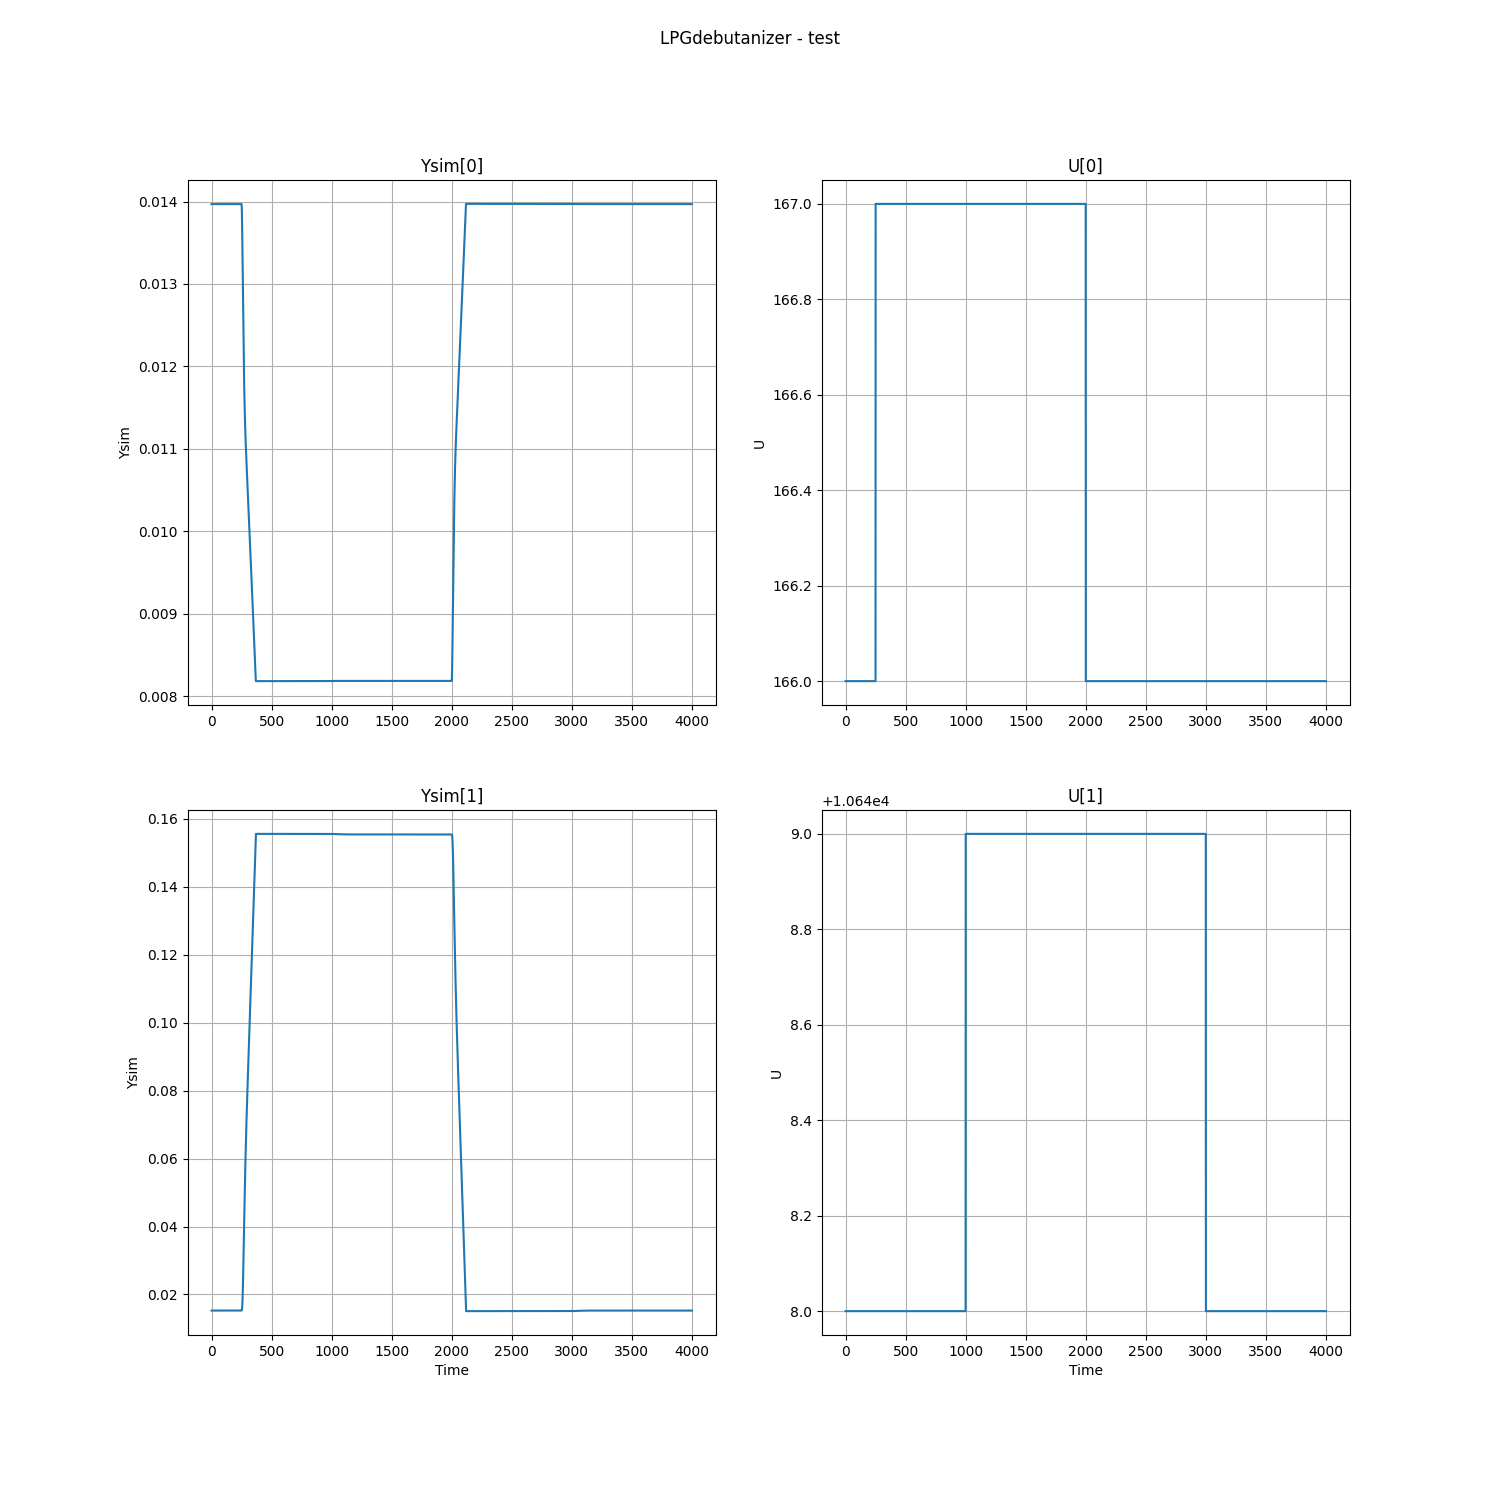
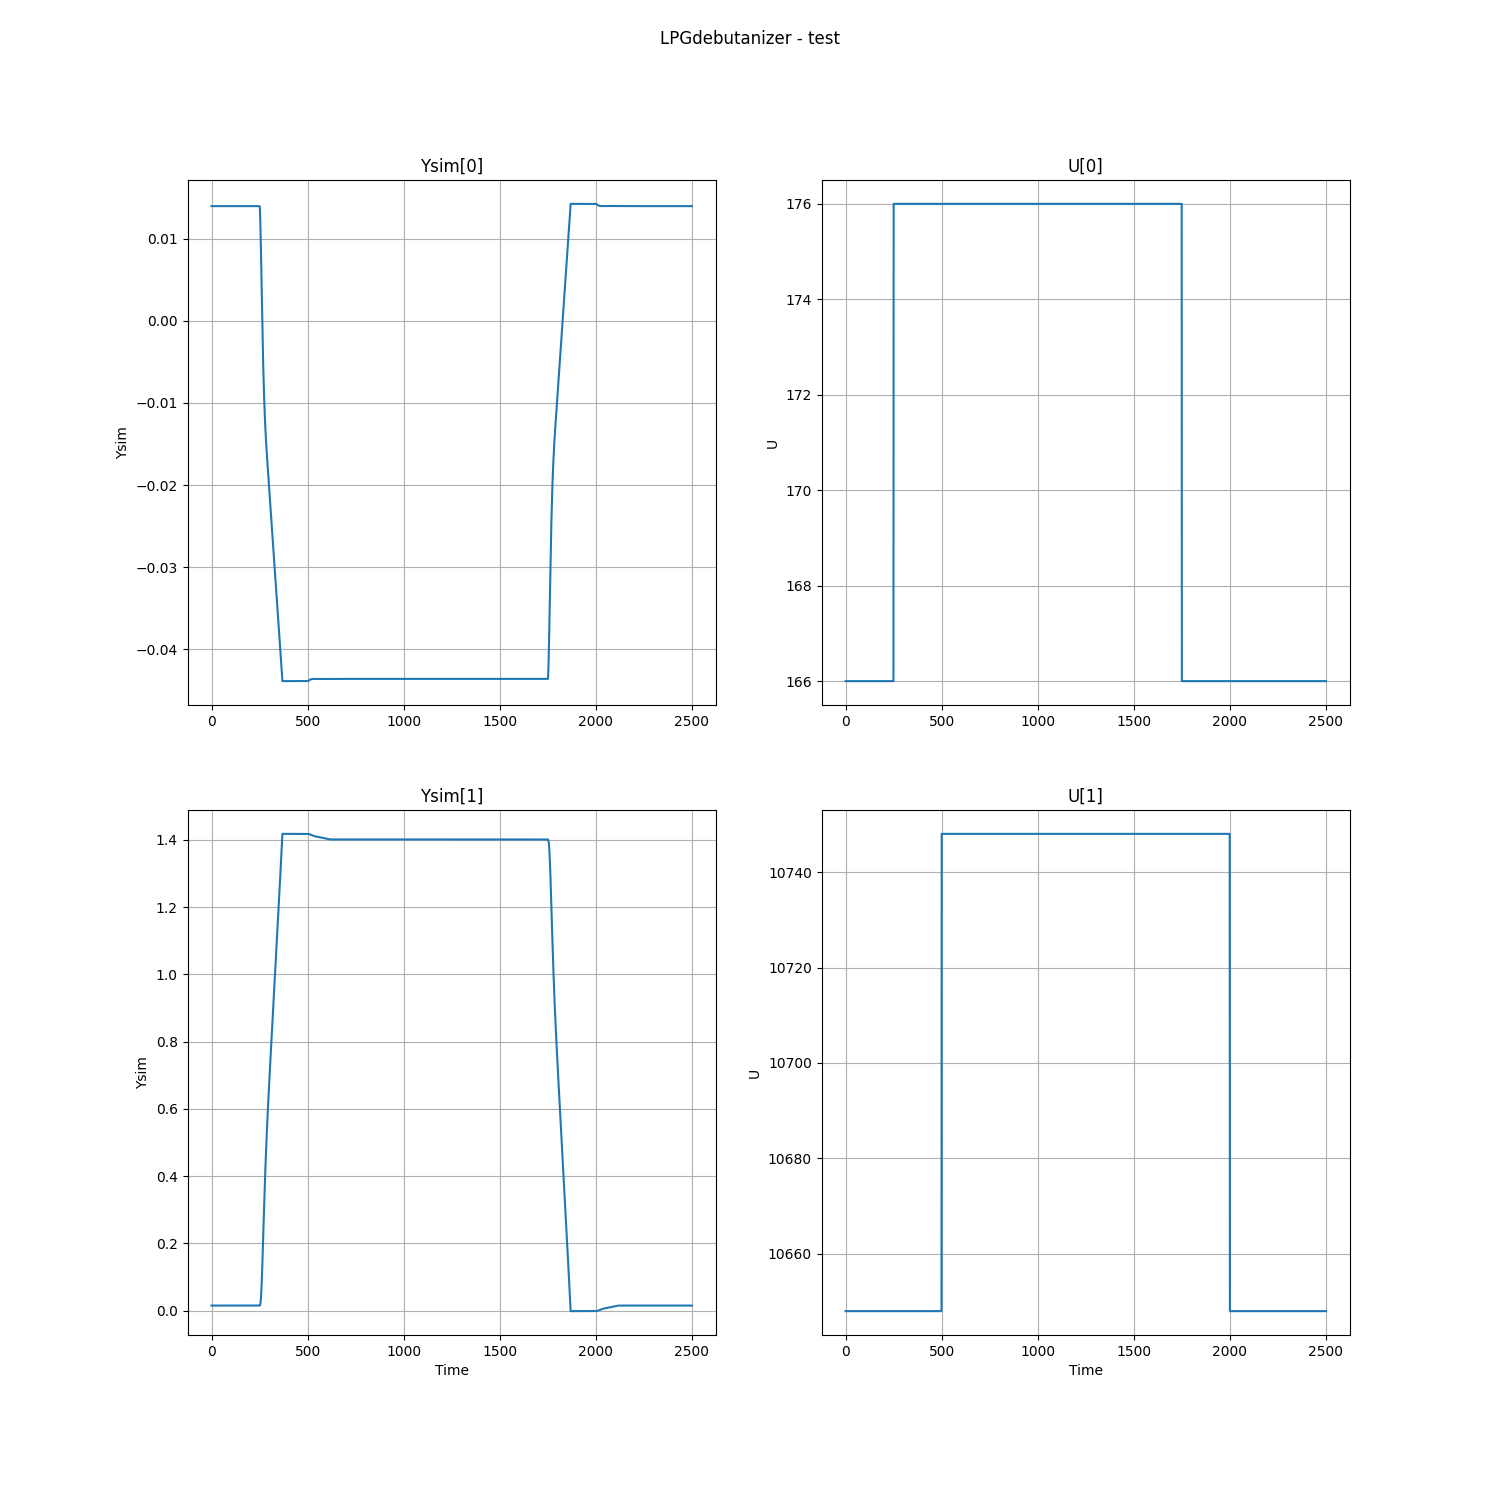
LPG first try simulation

diff --git a/01-LPGdebutanizerSimTest.py b/01-LPGdebutanizerSimTest.py
@@ -6,29 +6,63 @@ from src.mpc import mpc_controller_scipy_minimize
 from testSystems import *
 import joblib
 
-nsimTest = 4000  # Test simulation time in sampling periods
+# Initial parameters
+nsimTest = 2500  # Test simulation time in sampling periods
 nsim = 500  # Simulation time in sampling periods
 T = 1  # Sampling time (min)
-
 ny = 2
 nu = 2
 u0 = np.array([166, 10648])
 y0 = np.array([0.0139689, 0.0152698])
 
+#load the step responses
 Gmstep = joblib.load('outputs/Gstep.joblib')
 Gpstep = Gmstep
-
 plot_step_responses(Gmstep, nsim, T, plot_max_length=120, fig_name='LPGdebutanizer - Step Responses')
 
+# Set Simulation test
 tsimTest = np.linspace(0, nsimTest * T, nsimTest + 1)  # Simulation Time vector
 Utest = np.tile(u0, (len(tsimTest), 1)).T  # Initialisation of the input matrix
-Utest[:, 250:] = np.array([167, 10648]).reshape(-1, 1)  # Step change in inputs
-Utest[:, 1000:] = np.array([167, 10649]).reshape(-1, 1)  # Step change in inputs
-Utest[:, 2000:] = np.array([166, 10649]).reshape(-1, 1)  # Step change in inputs
-Utest[:, 3000:] = np.array([166, 10648]).reshape(-1, 1)  # Step change in inputs
+Utest[:, 250:] = np.array([176, 10648]).reshape(-1, 1)  # Step change in inputs
+Utest[:, 500:] = np.array([176, 10748]).reshape(-1, 1)  # Step change in inputs
+Utest[:, 1750:] = np.array([166, 10748]).reshape(-1, 1)  # Step change in inputs
+Utest[:, 2000:] = np.array([166, 10648]).reshape(-1, 1)  # Step change in inputs
 
 # Simulate the test
 YsimTest, delta_U = simulateMIMO(Gmstep, tsimTest, ny, nu, y0, u0, Utest)
 
 # Call the function to plot simulation results
 plot_simulation_results(YsimTest, Utest, tsimTest, 'LPGdebutanizer - test')
+
+# MPC parameters
+n = 120  # Stabilizing horizon
+p = 120  # Output prediction horizon
+m = 3  # Control horizon
+umax = np.array([190, 15000])
+umin = np.array([150, 5000])
+ymax = np.array([0.01, 0.03])
+ymin = np.array([0.005, 0.005])
+dumax = np.array([0.25, 5])
+q = np.array([100000, 100000])  # Output weights
+r = np.array([10000, 10000])  # Input weights
+
+# Control loop simulation
+tsim = np.linspace(0, nsim * T, nsim + 1)  # Simulation Time vector
+Ysim = np.tile(y0, (len(tsim), 1)).T # Initialize Y_sim
+Usim = np.tile(u0, (len(tsim), 1)).T  # Initialize U_sim
+for t in range(nsim + 1):
+    if t == 0:
+        u0temp = u0
+        y0temp = y0
+    else:
+        u_opt = mpc_controller_scipy_minimize(ny, nu, T, n, p, m, umax, umin, ymax, ymin, dumax, q,
+                                              r, u0temp, y0temp, Gmstep)
+        # Update Usim from t to the end with u_opt
+        Usim[:, t:] = u_opt.reshape(-1, 1)
+        # Simulate
+        Ysim, delta_U = simulateMIMO(Gpstep, tsim, ny, nu, y0, u0, Usim)
+        # Update Y0 and U0 for the next step
+        y0temp = Ysim[:, t]
+        u0temp = Usim[:, t]
+    print(f'Step {t} of {nsim} completed')
+plot_simulation_results(Ysim, Usim, tsim, 'LPGdebutanizer - control loop', ymin, ymax, umin, umax)
